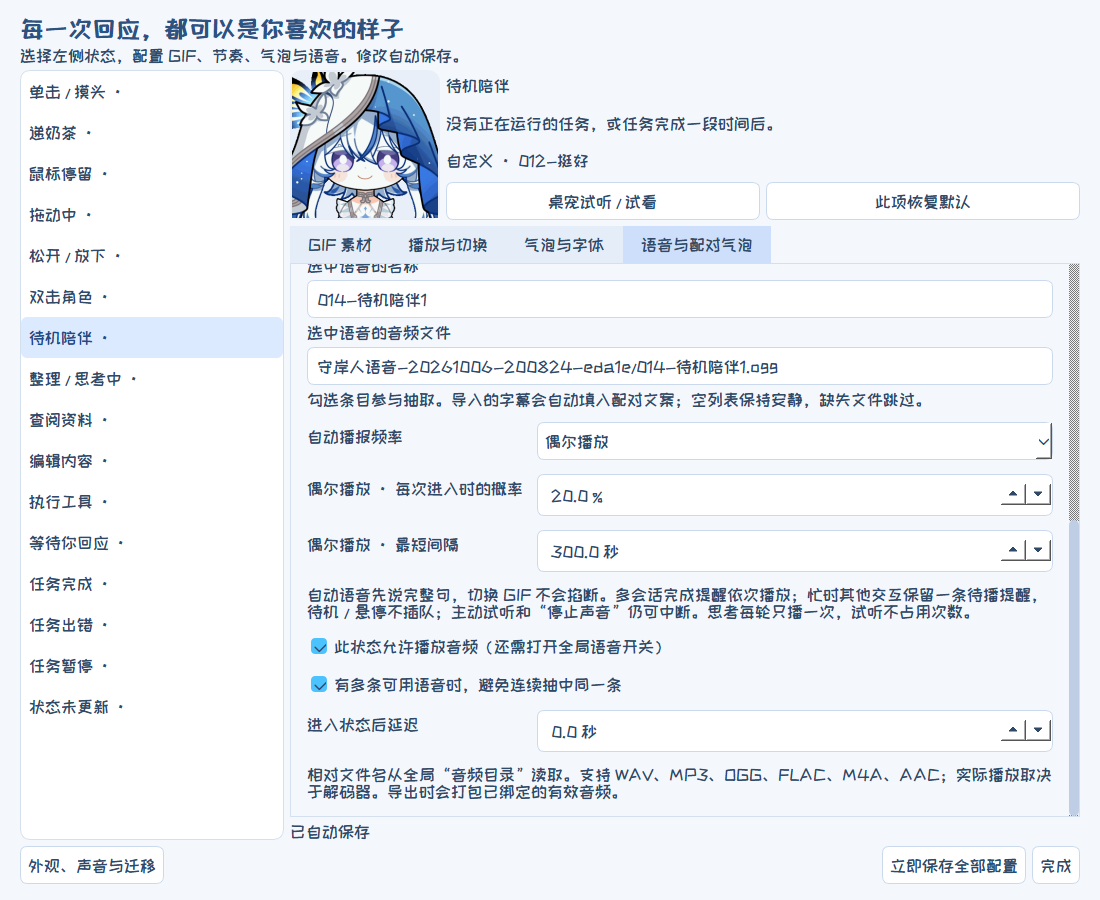
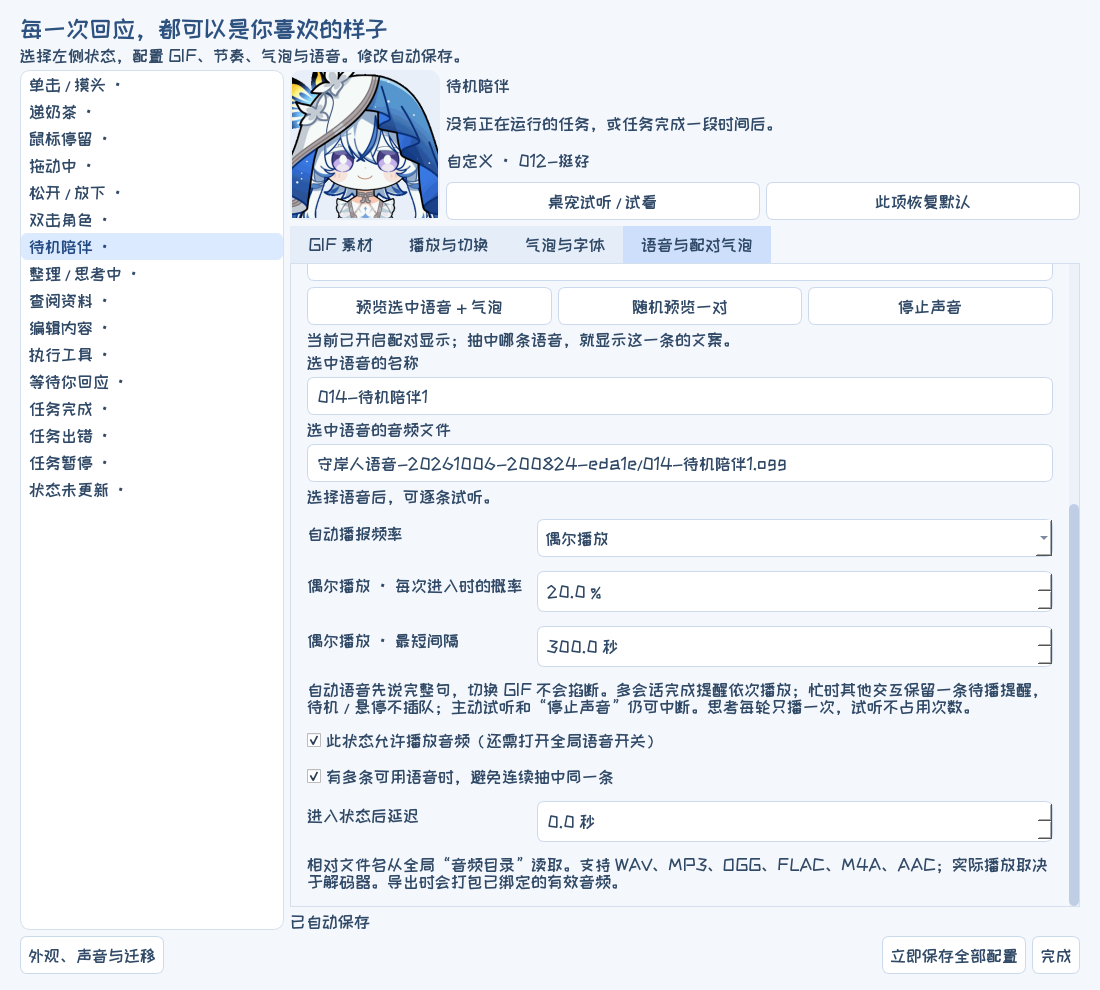
docs: refresh showcase with simulated Codex interactions and current controls

diff --git a/README.en.md b/README.en.md
@@ -8,7 +8,7 @@
 
 **A desktop companion that changes expressions with your Codex tasks, with customizable GIFs, voices, and speech bubbles.**
 
-[Download for Windows](https://github.com/Doya16/shorekeeper-codex-pet/releases/latest) · [Watch the demo](https://github.com/Doya16/shorekeeper-codex-pet/releases/download/v0.8.1/shorekeeper-landscape.mp4) · [User guide (Chinese)](docs/USAGE.md) · [Report an issue](https://github.com/Doya16/shorekeeper-codex-pet/issues)
+[Download for Windows](https://github.com/Doya16/shorekeeper-codex-pet/releases/latest) · [Watch the demo](https://github.com/Doya16/shorekeeper-codex-pet/releases/download/v0.9.1/shorekeeper-landscape-v091.mp4) · [User guide (Chinese)](docs/USAGE.md) · [Report an issue](https://github.com/Doya16/shorekeeper-codex-pet/issues)
 
 ![Shorekeeper Codex Desktop Pet](docs/social/cover-landscape.jpg)
 
@@ -18,11 +18,22 @@ For **Windows 10/11 x64**. The complete package includes three expression packs 
 
 ## Preview
 
-![Thinking, reading, editing, and looping expressions](docs/social/showcase.gif)
+![Simulated Codex interaction: thinking, reading, editing, and separate project completion notifications](docs/social/showcase.gif)
 
-[Landscape video: interactions and the full settings walkthrough](https://github.com/Doya16/shorekeeper-codex-pet/releases/download/v0.8.1/shorekeeper-landscape.mp4) · [Portrait video](https://github.com/Doya16/shorekeeper-codex-pet/releases/download/v0.8.1/shorekeeper-portrait.mp4)
+[Landscape video: interactions and the full settings walkthrough](https://github.com/Doya16/shorekeeper-codex-pet/releases/download/v0.9.1/shorekeeper-landscape-v091.mp4) · [Portrait video](https://github.com/Doya16/shorekeeper-codex-pet/releases/download/v0.9.1/shorekeeper-portrait-v091.mp4)
 
-Tasks and quota values shown are demonstration examples.
+The updated **1 minute 50 second** video shows simulated Codex conversations and editing, separate completion notifications for multiple projects, mouse interactions, and current settings. **The Codex window is a simulation with fictional projects, conversations, and quota values.** The pet, speech bubbles, and settings panels show the current application UI. The video uses Chinese UI labels and character voices.
+
+| Time | Demonstration |
+| --- | --- |
+| 00:01 | Thinking, reading, and editing; the opening voice plays once per task |
+| 00:19 | One project finishes, then the pet returns to another project's editing state |
+| 00:41 | Dragging, dropping, double-clicking, and head pats, with complete voice playback |
+| 00:57 | GIF selection, playback settings, multiple voices, and individually paired subtitles |
+| 01:19 | Idle voice frequency, live resizing, and launching with Codex |
+| 01:37 | Saving all settings and exporting a complete portable package |
+
+![One project finishes while another continues editing](docs/social/multi-project.jpg)
 
 ## Download and get started
 
@@ -82,11 +93,15 @@ If a voice clip's paired text is empty, that clip displays no bubble. When using
 
 **Resizing:** right-click → **调整大小** (Resize), or hold **Ctrl + mouse wheel** while hovering over the pet. Bubble width and quota bar size have separate sliders and percentage fields. Enable **显示气泡预览（无声音）** (show bubble preview, without sound) to adjust the bubble even when no line is playing. Drag either edge of a visible bubble or either side of the quota bar; text scales along with it. Changes save automatically, and subsequent overall resizing preserves both relative proportions.
 
-![Live preview of bubble width and quota bar size](docs/demo/resize-controls.png)
+![Live preview of bubble width and quota bar size](docs/social/size-preview.jpg)
+
+[View the complete resize panel](docs/demo/resize-controls.png)
 
 Bubble width ranges from 75% to 400% of the character width; the quota bar ranges from 50% to 250% of its original size. If it does not fit on screen, the layout adjusts temporarily without overwriting your saved proportions. See the [user guide (Chinese)](docs/USAGE.md) for detailed format limits and settings.
 
 ## Saving and migration
+
+![Save GIFs, voices, subtitles, fonts, and all settings](docs/social/portable-profile.jpg)
 
 Changes save automatically. To save or export manually, use **right-click → 外观、声音与迁移 → 保存与迁移** (Appearance, Sound & Migration → Save & Migrate).
 

diff --git a/README.md b/README.md
@@ -8,7 +8,7 @@
 
 **跟随 Codex 任务切换表情，支持自定义 GIF、语音和气泡台词。**
 
-[下载 Windows 版](https://github.com/Doya16/shorekeeper-codex-pet/releases/latest) · [观看演示](https://github.com/Doya16/shorekeeper-codex-pet/releases/download/v0.8.1/shorekeeper-landscape.mp4) · [使用指南](docs/USAGE.md) · [问题反馈](https://github.com/Doya16/shorekeeper-codex-pet/issues)
+[下载 Windows 版](https://github.com/Doya16/shorekeeper-codex-pet/releases/latest) · [观看演示](https://github.com/Doya16/shorekeeper-codex-pet/releases/download/v0.9.1/shorekeeper-landscape-v091.mp4) · [使用指南](docs/USAGE.md) · [问题反馈](https://github.com/Doya16/shorekeeper-codex-pet/issues)
 
 ![守岸人 Codex 桌宠](docs/social/cover-landscape.jpg)
 
@@ -18,11 +18,22 @@
 
 ## 效果预览
 
-![思考、查阅、编辑与循环表情展示](docs/social/showcase.gif)
+![Codex 模拟交互：思考、查阅、编辑与多项目完成提醒](docs/social/showcase.gif)
 
-[横屏视频：互动与完整设置演示](https://github.com/Doya16/shorekeeper-codex-pet/releases/download/v0.8.1/shorekeeper-landscape.mp4) · [竖屏视频](https://github.com/Doya16/shorekeeper-codex-pet/releases/download/v0.8.1/shorekeeper-portrait.mp4)
+[横屏视频：互动与完整设置演示](https://github.com/Doya16/shorekeeper-codex-pet/releases/download/v0.9.1/shorekeeper-landscape-v091.mp4) · [竖屏视频](https://github.com/Doya16/shorekeeper-codex-pet/releases/download/v0.9.1/shorekeeper-portrait-v091.mp4)
 
-画面中的任务和额度为演示示例。
+新版演示约 **1 分 50 秒**，包含模拟 Codex 对话、逐行编辑、多个项目分别完成的提醒，以及鼠标互动和完整设置。**Codex 窗口为模拟交互，项目、对话和额度均为示例**；桌宠、气泡和设置面板展示当前版本界面。
+
+| 时间 | 展示内容 |
+| --- | --- |
+| 00:01 | 思考 → 查阅 → 编辑；回到思考时不重复开场语音 |
+| 00:19 | 第一个项目完成时提醒，随后恢复另一项目的编辑表情 |
+| 00:41 | 拖动、放下、双击和摸头，语音完整播放 |
+| 00:57 | 自选 GIF、播放节奏、多条语音与逐条字幕配对 |
+| 01:19 | 待机语音频率、实时调整大小、随 Codex 启动 |
+| 01:37 | 保存全部配置，导出便携完整包 |
+
+![一个项目完成时，另一个项目继续编辑](docs/social/multi-project.jpg)
 
 ## 下载与使用
 
@@ -80,11 +91,15 @@
 
 **调整大小**：右键 → 调整大小，或将鼠标放在桌宠上按 **Ctrl + 滚轮**。气泡宽度与配额条大小有各自的滑块和百分比输入；勾选 **显示气泡预览（无声音）**，没有台词时也能调整。气泡出现时可拖动左右边缘，配额条也可拖动两侧，文字会一起缩放。修改自动保存，之后整体缩放仍保留两者的相对比例。
 
-![气泡宽度与配额条大小实时预览](docs/demo/resize-controls.png)
+![气泡宽度与配额条大小实时预览](docs/social/size-preview.jpg)
+
+[查看完整调整面板](docs/demo/resize-controls.png)
 
 气泡宽度支持角色宽度的 75%–400%，配额条支持原大小的 50%–250%。屏幕放不下时临时适配，不覆盖保存的比例。详细格式限制和各项参数见 [使用指南](docs/USAGE.md)。
 
 ## 保存与迁移
+
+![保存 GIF、声音、字幕、字体和全部配置](docs/social/portable-profile.jpg)
 
 修改会自动保存。手动保存或导出：**右键 → 外观、声音与迁移 → 保存与迁移**。
 
